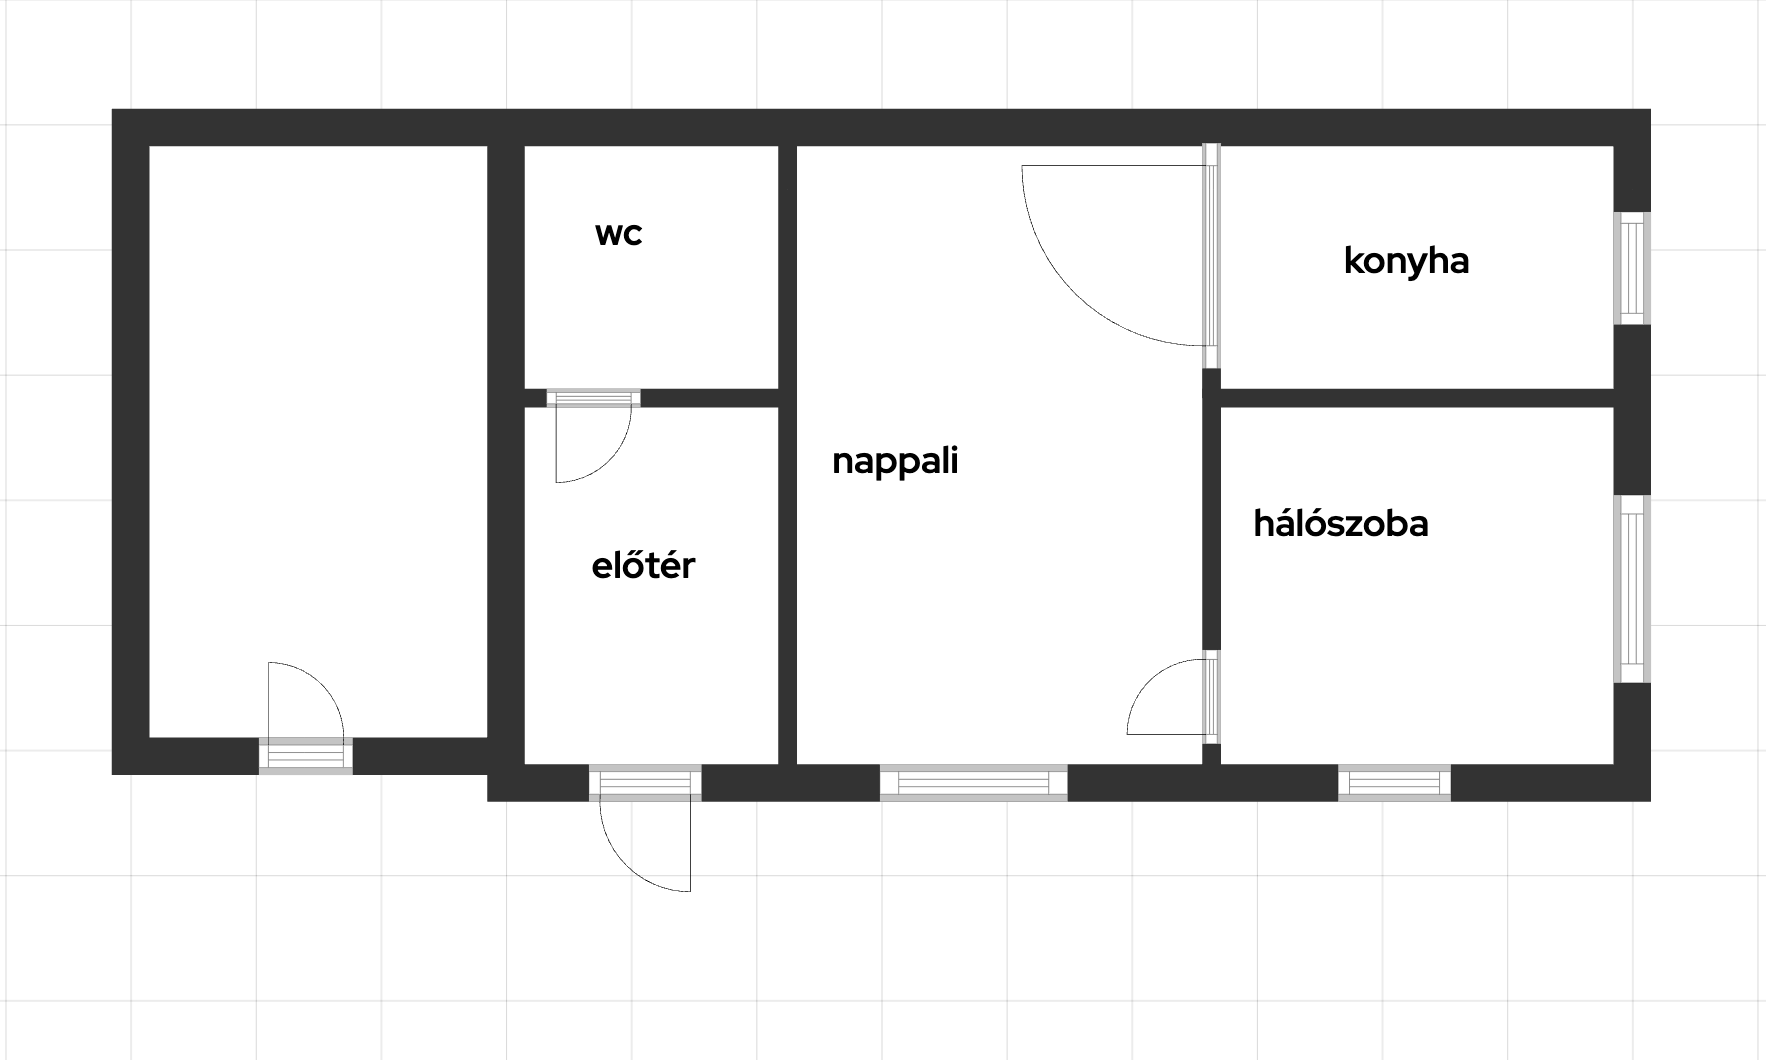
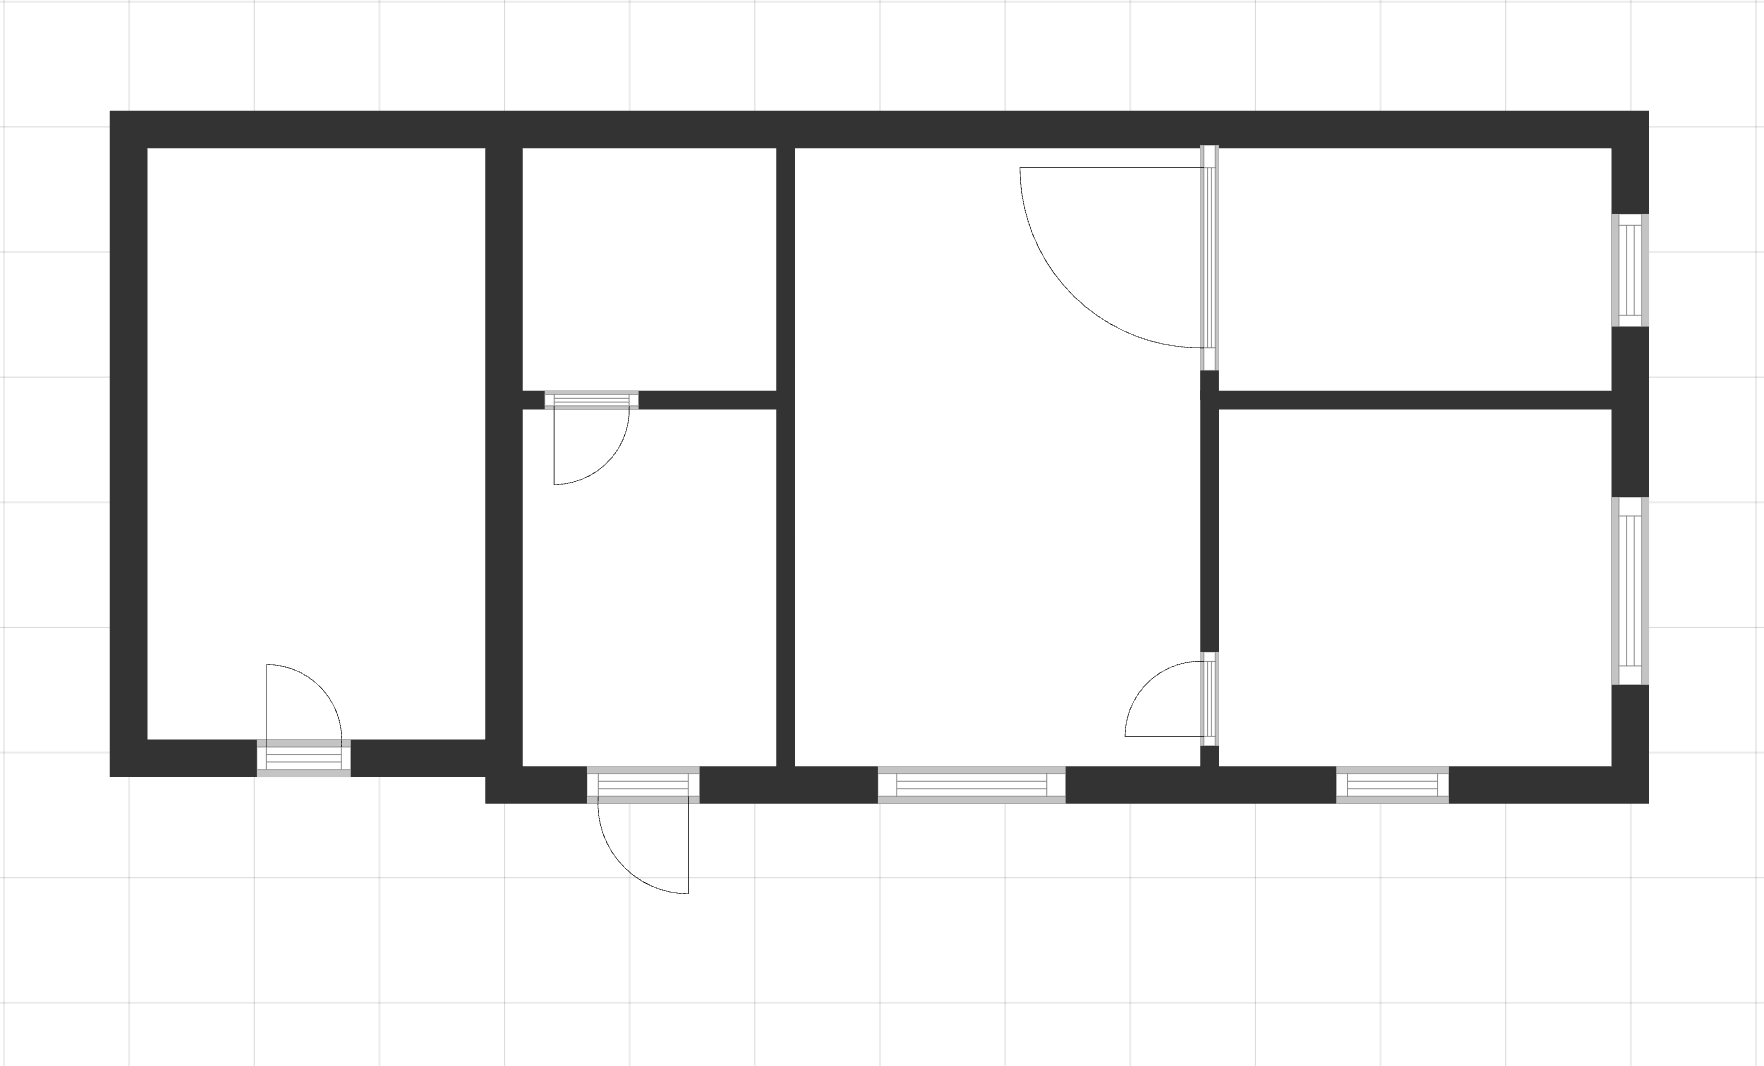
chore: optimize floorplan asset

diff --git a/style.css b/style.css
@@ -231,7 +231,7 @@ textarea {
 .map {
   position: relative;
   width: 100%;
-  aspect-ratio: 1766 / 1060;
+  aspect-ratio: 1764 / 1066;
   border: 2px solid #b7c6cf;
   background: #fff;
   overflow: hidden;